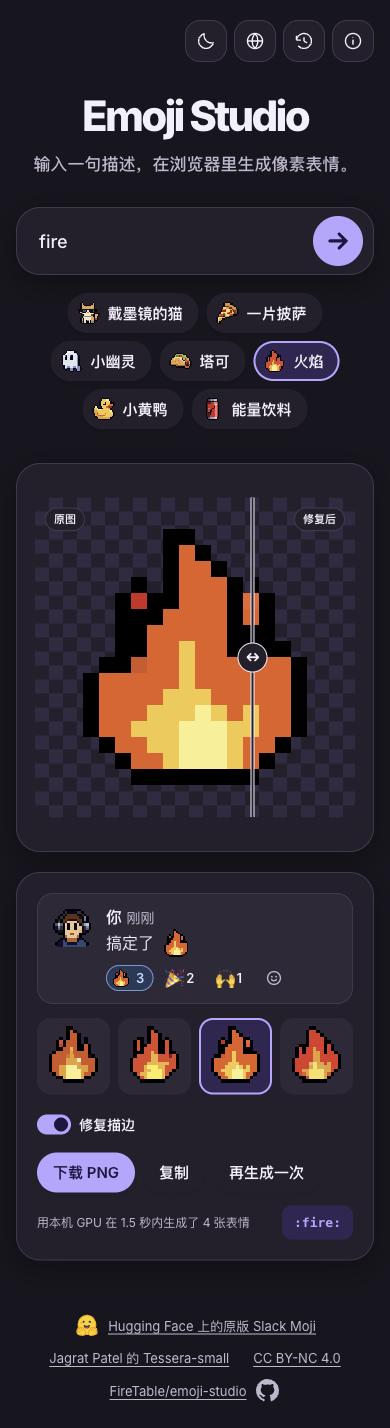
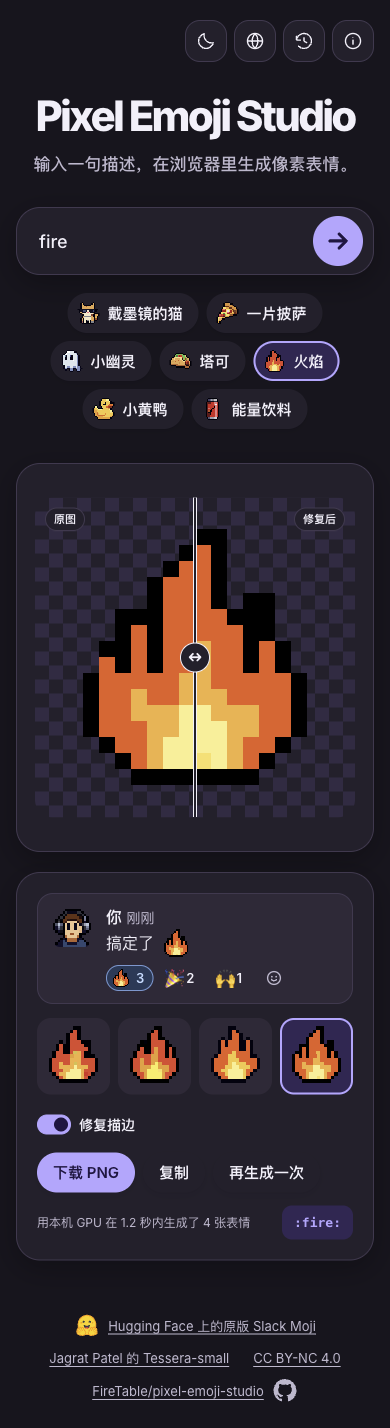
feat: rebrand as Pixel Emoji Studio

diff --git a/src/lib/i18n.ts b/src/lib/i18n.ts
@@ -1,3 +1,5 @@
+import { APP_NAME } from "./brand";
+
 export type Locale = "en" | "zh";
 
 export const LOCALES = {
@@ -5,9 +7,9 @@ export const LOCALES = {
     lang: "en",
     path: "/",
     ogLocale: "en_US",
-    title: "Emoji Studio – Pixel Emoji Generator | FireTable",
-    description: "Make transparent 16×16 pixel emoji from a text prompt. Emoji Studio runs Tessera-small on your device with WebGPU or WebAssembly.",
-    imageAlt: "Emoji Studio with a pixel-art cat wearing sunglasses and sample emoji.",
+    title: `${APP_NAME} – Browser Emoji Generator | FireTable`,
+    description: `Make transparent 16×16 pixel emoji from a text prompt. ${APP_NAME} runs Tessera-small on your device with WebGPU or WebAssembly.`,
+    imageAlt: `${APP_NAME} with a pixel-art cat wearing sunglasses and sample emoji.`,
     subtitle: "Turn a short description into a pixel emoji, right in your browser.",
     preferences: "Display settings",
     languages: "Language",
@@ -59,14 +61,14 @@ export const LOCALES = {
     historyEmpty: "Your generated emoji will appear here.",
     historyError: "This browser couldn’t save or open your history.",
     historyMore: "Show older",
-    about: "How Emoji Studio works",
+    about: `How ${APP_NAME} works`,
     aboutOriginal: {
       title: "Built on Slack Moji",
-      app: "Caleb Fahlgren’s Slack Moji brought Tessera-small to the browser using ONNX and JavaScript. Emoji Studio is FireTable’s non-commercial adaptation of that app. It builds on the original page code and reuses the chat preview design and some pixel art, including example images and background sprites.",
-      model: "Jagrat Patel trained Tessera-small for 16×16 pixel art using images from Angais’s Pixel Art Atlas. Emoji Studio uses the same model weights.",
+      app: `Caleb Fahlgren’s Slack Moji brought Tessera-small to the browser using ONNX and JavaScript. ${APP_NAME} is FireTable’s non-commercial adaptation of that app. It builds on the original page code and reuses the chat preview design and some pixel art, including example images and background sprites.`,
+      model: `Jagrat Patel trained Tessera-small for 16×16 pixel art using images from Angais’s Pixel Art Atlas. ${APP_NAME} uses the same model weights.`,
     },
     aboutChanges: {
-      title: "What Emoji Studio adds",
+      title: `What ${APP_NAME} adds`,
       items: [
         {
           title: "Split model downloads",
@@ -96,15 +98,14 @@ export const LOCALES = {
     },
     original: "Original Slack Moji on Hugging Face",
     model: "Tessera-small by Jagrat Patel",
-    source: "FireTable/emoji-studio",
   },
   zh: {
     lang: "zh-CN",
     path: "/zh/",
     ogLocale: "zh_CN",
-    title: "Emoji Studio – 浏览器像素表情生成器 | FireTable",
-    description: "用文字生成 16×16 透明像素表情。Emoji Studio 通过 WebGPU 或 WebAssembly 在你的设备上运行 Tessera-small。",
-    imageAlt: "Emoji Studio 分享卡，画面中有一只戴墨镜的像素猫和几个示例表情。",
+    title: `${APP_NAME} – 浏览器像素表情生成器 | FireTable`,
+    description: `用文字生成 16×16 透明像素表情。${APP_NAME} 通过 WebGPU 或 WebAssembly 在你的设备上运行 Tessera-small。`,
+    imageAlt: `${APP_NAME} 分享卡，画面中有一只戴墨镜的像素猫和几个示例表情。`,
     subtitle: "输入一句描述，在浏览器里生成像素表情。",
     preferences: "显示设置",
     languages: "语言",
@@ -156,14 +157,14 @@ export const LOCALES = {
     historyEmpty: "生成过的表情会出现在这里。",
     historyError: "这个浏览器无法保存或读取历史记录。",
     historyMore: "查看更多",
-    about: "Emoji Studio 怎么运行？",
+    about: `${APP_NAME} 怎么运行？`,
     aboutOriginal: {
       title: "从原版 Slack Moji 开始",
-      app: "Caleb Fahlgren 的 Slack Moji 用 ONNX 和 JavaScript 把 Tessera-small 带到了浏览器。Emoji Studio 是 FireTable 基于原版页面源码制作的非商业改版，沿用了聊天预览的设计，以及部分示例图和背景像素小图。",
-      model: "Tessera-small 由 Jagrat Patel 使用 Angais 的 Pixel Art Atlas 数据集训练，专门生成 16×16 像素图。Emoji Studio 沿用这套模型权重。",
+      app: `Caleb Fahlgren 的 Slack Moji 用 ONNX 和 JavaScript 把 Tessera-small 带到了浏览器。${APP_NAME} 是 FireTable 基于原版页面源码制作的非商业改版，沿用了聊天预览的设计，以及部分示例图和背景像素小图。`,
+      model: `Tessera-small 由 Jagrat Patel 使用 Angais 的 Pixel Art Atlas 数据集训练，专门生成 16×16 像素图。${APP_NAME} 沿用这套模型权重。`,
     },
     aboutChanges: {
-      title: "Emoji Studio 增加了什么",
+      title: `${APP_NAME} 增加了什么`,
       items: [
         {
           title: "ONNX 模型拆包与并行下载",
@@ -193,6 +194,5 @@ export const LOCALES = {
     },
     original: "Hugging Face 上的原版 Slack Moji",
     model: "Jagrat Patel 的 Tessera-small",
-    source: "FireTable/emoji-studio",
   },
 } as const;

diff --git a/src/lib/Studio.svelte b/src/lib/Studio.svelte
@@ -1,5 +1,6 @@
 <script lang="ts">
   import { onMount, tick } from "svelte";
+  import { APP_NAME, REPO_NAME, REPO_URL } from "$lib/brand";
   import { loadEngine, previousLoad, GRID, N, FILES } from "$lib/client.js";
   import { LOCALES, type Locale } from "$lib/i18n";
   import { readHistory, saveGeneration, type HistoryEntry } from "$lib/history";
@@ -359,7 +360,7 @@
   onAbout={() => aboutDialog?.showModal()}
 />
 <main>
-  <h1>Emoji Studio</h1>
+  <h1>{APP_NAME}</h1>
   <p class="sub">{words.subtitle}</p>
 
   <form class="input" onsubmit={submit}>
@@ -487,8 +488,8 @@
   </a>
   <a href="https://huggingface.co/thejagstudio/tessera-small" target="_blank" rel="noopener">{words.model}</a>
   <a href="https://creativecommons.org/licenses/by-nc/4.0/" target="_blank" rel="noopener">CC BY-NC 4.0</a>
-  <a class="source" href="https://github.com/FireTable/emoji-studio" target="_blank" rel="noopener">
-    {words.source}
+  <a class="source" href={REPO_URL} target="_blank" rel="noopener">
+    {REPO_NAME}
     <span class="footer-icon"><svg width="24" height="24" viewBox="0 0 24 24" fill="currentColor" aria-hidden="true"><path d="M10.226 17.284c-2.965-.36-5.054-2.493-5.054-5.256 0-1.123.404-2.336 1.078-3.144-.292-.741-.247-2.314.09-2.965.898-.112 2.111.36 2.83 1.01.853-.269 1.752-.404 2.853-.404 1.1 0 1.999.135 2.807.382.696-.629 1.932-1.1 2.83-.988.315.606.36 2.179.067 2.942.72.854 1.101 2 1.101 3.167 0 2.763-2.089 4.852-5.098 5.234.763.494 1.28 1.572 1.28 2.807v2.336c0 .674.561 1.056 1.235.786 4.066-1.55 7.255-5.615 7.255-10.646C23.5 6.188 18.334 1 11.978 1 5.62 1 .5 6.188.5 12.545c0 4.986 3.167 9.12 7.435 10.669.606.225 1.19-.18 1.19-.786V20.63a2.9 2.9 0 0 1-1.078.224c-1.483 0-2.359-.808-2.987-2.313-.247-.607-.517-.966-1.034-1.033-.27-.023-.359-.135-.359-.27 0-.27.45-.471.898-.471.652 0 1.213.404 1.797 1.235.45.651.921.943 1.483.943.561 0 .92-.202 1.437-.719.382-.381.674-.718.944-.943"/></svg></span>
   </a>
 </footer>

diff --git a/src/lib/Seo.svelte b/src/lib/Seo.svelte
@@ -1,9 +1,9 @@
 <script lang="ts">
   import { LOCALES, type Locale } from "./i18n";
+  import { APP_NAME } from "./brand";
 
   const origin = "https://emoji.firetable.tech";
-  const image = origin + "/og.png";
-  const name = "Emoji Studio";
+  const image = origin + "/og.png?v=pixel-emoji-studio";
   const license = "https://creativecommons.org/licenses/by-nc/4.0/";
 
   let { locale }: { locale: Locale } = $props();
@@ -14,7 +14,7 @@
     JSON.stringify({
       "@context": "https://schema.org",
       "@type": "WebApplication",
-      name,
+      name: APP_NAME,
       url,
       description: copy.description,
       image,
@@ -39,7 +39,7 @@
   <link rel="describedby" href={origin + "/llms.txt"} />
 
   <meta property="og:type" content="website" />
-  <meta property="og:site_name" content={name} />
+  <meta property="og:site_name" content={APP_NAME} />
   <meta property="og:title" content={copy.title} />
   <meta property="og:description" content={copy.description} />
   <meta property="og:url" content={url} />

diff --git a/src/lib/brand.ts b/src/lib/brand.ts
@@ -1,0 +1,3 @@
+export const APP_NAME = "Pixel Emoji Studio";
+export const REPO_NAME = "FireTable/pixel-emoji-studio";
+export const REPO_URL = `https://github.com/${REPO_NAME}`;

diff --git a/static/about.md b/static/about.md
@@ -1,8 +1,8 @@
-# Emoji Studio
+# Pixel Emoji Studio
 
-Emoji Studio is a free, non-commercial web app that makes transparent 16×16 pixel emoji from text. Enter a short description to generate four variants, choose one, then copy the image or download a transparent PNG.
+Pixel Emoji Studio is a free, non-commercial web app that makes transparent 16×16 pixel emoji from text. Enter a short description to generate four variants, choose one, then copy the image or download a transparent PNG.
 
-## What Emoji Studio adds
+## What Pixel Emoji Studio adds
 
 - **Model downloads.** The original Tessera-small and CLIP ONNX files are split into eight parts, each at most 16 MiB. The browser fetches up to four parts in parallel from the CDN and reassembles the two models in memory. The first visit downloads about 115 MB. Later visits reuse the cached parts while they remain available.
 - **Outline repair.** An optional switch fills small gaps in the outer outline. Drag the comparison slider to inspect the original and repaired images. Copy and export use the switch's current setting.
@@ -12,8 +12,8 @@ Emoji Studio is a free, non-commercial web app that makes transparent 16×16 pix
 
 ## Local inference and credits
 
-Emoji Studio builds on the page code of Caleb Fahlgren’s [Slack Moji](https://huggingface.co/spaces/cfahlgren1/slack-moji) and reuses its chat preview design and some example images and background sprites. The adaptation and Jagrat Patel’s [Tessera-small weights](https://huggingface.co/thejagstudio/tessera-small) follow [CC BY-NC 4.0](https://creativecommons.org/licenses/by-nc/4.0/).
+Pixel Emoji Studio builds on the page code of Caleb Fahlgren’s [Slack Moji](https://huggingface.co/spaces/cfahlgren1/slack-moji) and reuses its chat preview design and some example images and background sprites. The adaptation and Jagrat Patel’s [Tessera-small weights](https://huggingface.co/thejagstudio/tessera-small) follow [CC BY-NC 4.0](https://creativecommons.org/licenses/by-nc/4.0/).
 
 ONNX Runtime Web runs on the visitor’s GPU through WebGPU or on their CPU through WebAssembly. Prompts, generated images, and history stay in the browser.
 
-[Open Emoji Studio](https://emoji.firetable.tech/) · [简体中文](https://emoji.firetable.tech/zh/about.md) · [Source code](https://github.com/FireTable/emoji-studio)
+[Open Pixel Emoji Studio](https://emoji.firetable.tech/) · [简体中文](https://emoji.firetable.tech/zh/about.md) · [Source code](https://github.com/FireTable/pixel-emoji-studio)

diff --git a/README.md b/README.md
@@ -1,10 +1,10 @@
-# Emoji Studio
+# Pixel Emoji Studio
 
-Make transparent 16×16 pixel emoji from a short prompt. Emoji Studio is FireTable’s non-commercial adaptation of [Slack Moji](https://huggingface.co/spaces/cfahlgren1/slack-moji).
+Make transparent 16×16 pixel emoji from a short prompt. Pixel Emoji Studio is FireTable’s non-commercial adaptation of [Slack Moji](https://huggingface.co/spaces/cfahlgren1/slack-moji).
 
 [Live demo](https://emoji.firetable.tech/) · [简体中文](README-CN.md) · [Mobile screenshot](screenshots/mobile.png)
 
-![Emoji Studio desktop workspace showing the fire sprite and outline comparison](screenshots/desktop.png)
+![Pixel Emoji Studio desktop workspace showing the fire sprite and outline comparison](screenshots/desktop.png)
 
 ## Features
 
@@ -16,8 +16,8 @@ Make transparent 16×16 pixel emoji from a short prompt. Emoji Studio is FireTab
 ## Run locally
 
 ```sh
-git clone https://github.com/FireTable/emoji-studio.git
-cd emoji-studio
+git clone https://github.com/FireTable/pixel-emoji-studio.git
+cd pixel-emoji-studio
 npm ci
 npm run dev
 ```
@@ -41,7 +41,7 @@ The English and Chinese pages ship as prerendered HTML and link to their [Markdo
 
 ## Credits and license
 
-Emoji Studio builds on Caleb Fahlgren’s [Slack Moji](https://huggingface.co/spaces/cfahlgren1/slack-moji), reusing its page code, chat preview design, and some example images and background sprites. FireTable updated the workspace and added outline repair, history, and display settings.
+Pixel Emoji Studio builds on Caleb Fahlgren’s [Slack Moji](https://huggingface.co/spaces/cfahlgren1/slack-moji), reusing its page code, chat preview design, and some example images and background sprites. FireTable updated the workspace and added outline repair, history, and display settings.
 
 The original app and Jagrat Patel’s [Tessera-small weights](https://huggingface.co/thejagstudio/tessera-small#license) are available under [CC BY-NC 4.0](LICENSE). The adaptation and redistributed Tessera shards follow those terms. A commercial license for Tessera requires separate permission from its author.
 

diff --git a/README-CN.md b/README-CN.md
@@ -1,10 +1,10 @@
-# Emoji Studio
+# Pixel Emoji Studio
 
-输入一句描述，在浏览器内生成 16×16 的透明像素表情。Emoji Studio 是 FireTable 基于 [Slack Moji](https://huggingface.co/spaces/cfahlgren1/slack-moji) 制作的非商业改版。
+输入一句描述，在浏览器内生成 16×16 的透明像素表情。Pixel Emoji Studio 是 FireTable 基于 [Slack Moji](https://huggingface.co/spaces/cfahlgren1/slack-moji) 制作的非商业改版。
 
 [在线体验](https://emoji.firetable.tech/zh/) · [English](README.md) · [移动端截图](screenshots/mobile.png)
 
-![Emoji Studio 桌面工作区的火焰描边对比](screenshots/desktop.png)
+![Pixel Emoji Studio 桌面工作区的火焰描边对比](screenshots/desktop.png)
 
 ## 功能
 
@@ -16,8 +16,8 @@
 ## 本地运行
 
 ```sh
-git clone https://github.com/FireTable/emoji-studio.git
-cd emoji-studio
+git clone https://github.com/FireTable/pixel-emoji-studio.git
+cd pixel-emoji-studio
 npm ci
 npm run dev
 ```
@@ -32,7 +32,7 @@ npm run dev
 
 ## 鸣谢与许可
 
-Emoji Studio 以 Caleb Fahlgren 的 [Slack Moji](https://huggingface.co/spaces/cfahlgren1/slack-moji) 页面源码为基础，沿用了聊天预览的设计，以及部分示例图和背景像素小图。FireTable 调整了工作区，增加了描边修复、历史记录和显示设置。
+Pixel Emoji Studio 以 Caleb Fahlgren 的 [Slack Moji](https://huggingface.co/spaces/cfahlgren1/slack-moji) 页面源码为基础，沿用了聊天预览的设计，以及部分示例图和背景像素小图。FireTable 调整了工作区，增加了描边修复、历史记录和显示设置。
 
 原版应用和 Jagrat Patel（TheJagStudio）训练的 [Tessera-small 权重](https://huggingface.co/thejagstudio/tessera-small#license) 采用 [CC BY-NC 4.0](LICENSE)。本站的改版和再分发的 Tessera 分片沿用该许可。商业使用 Tessera 需向模型作者另行取得授权。
 
